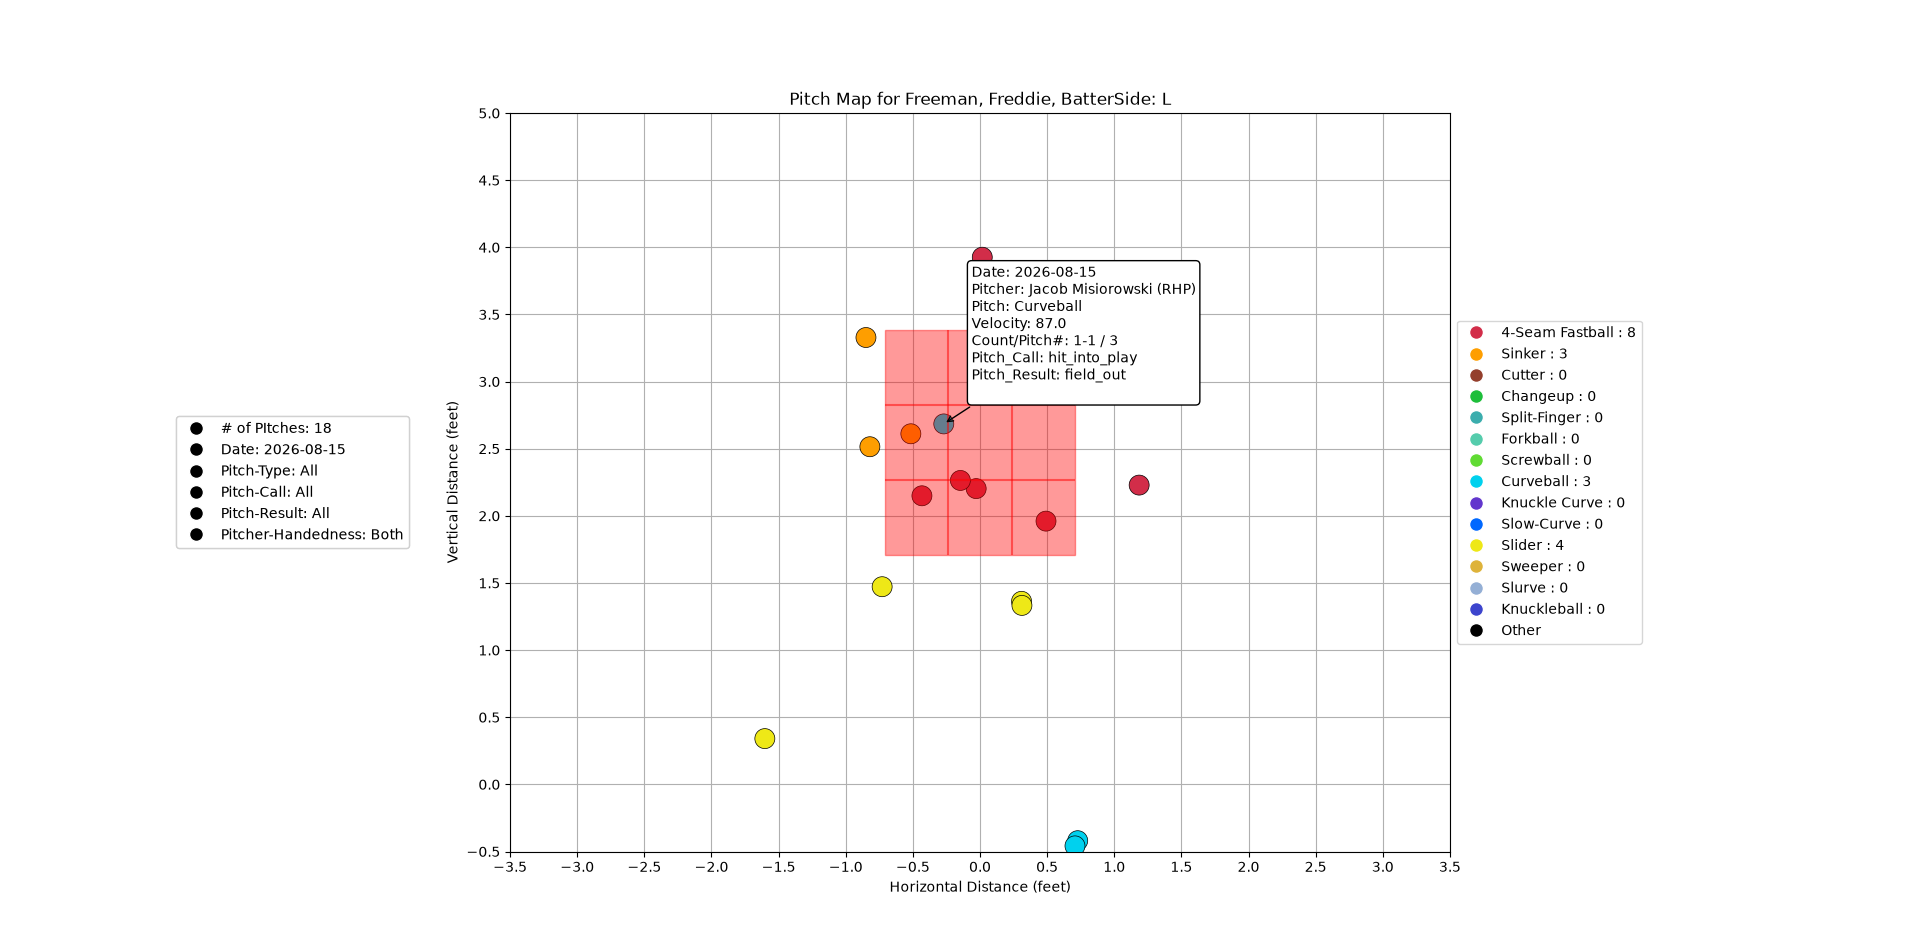
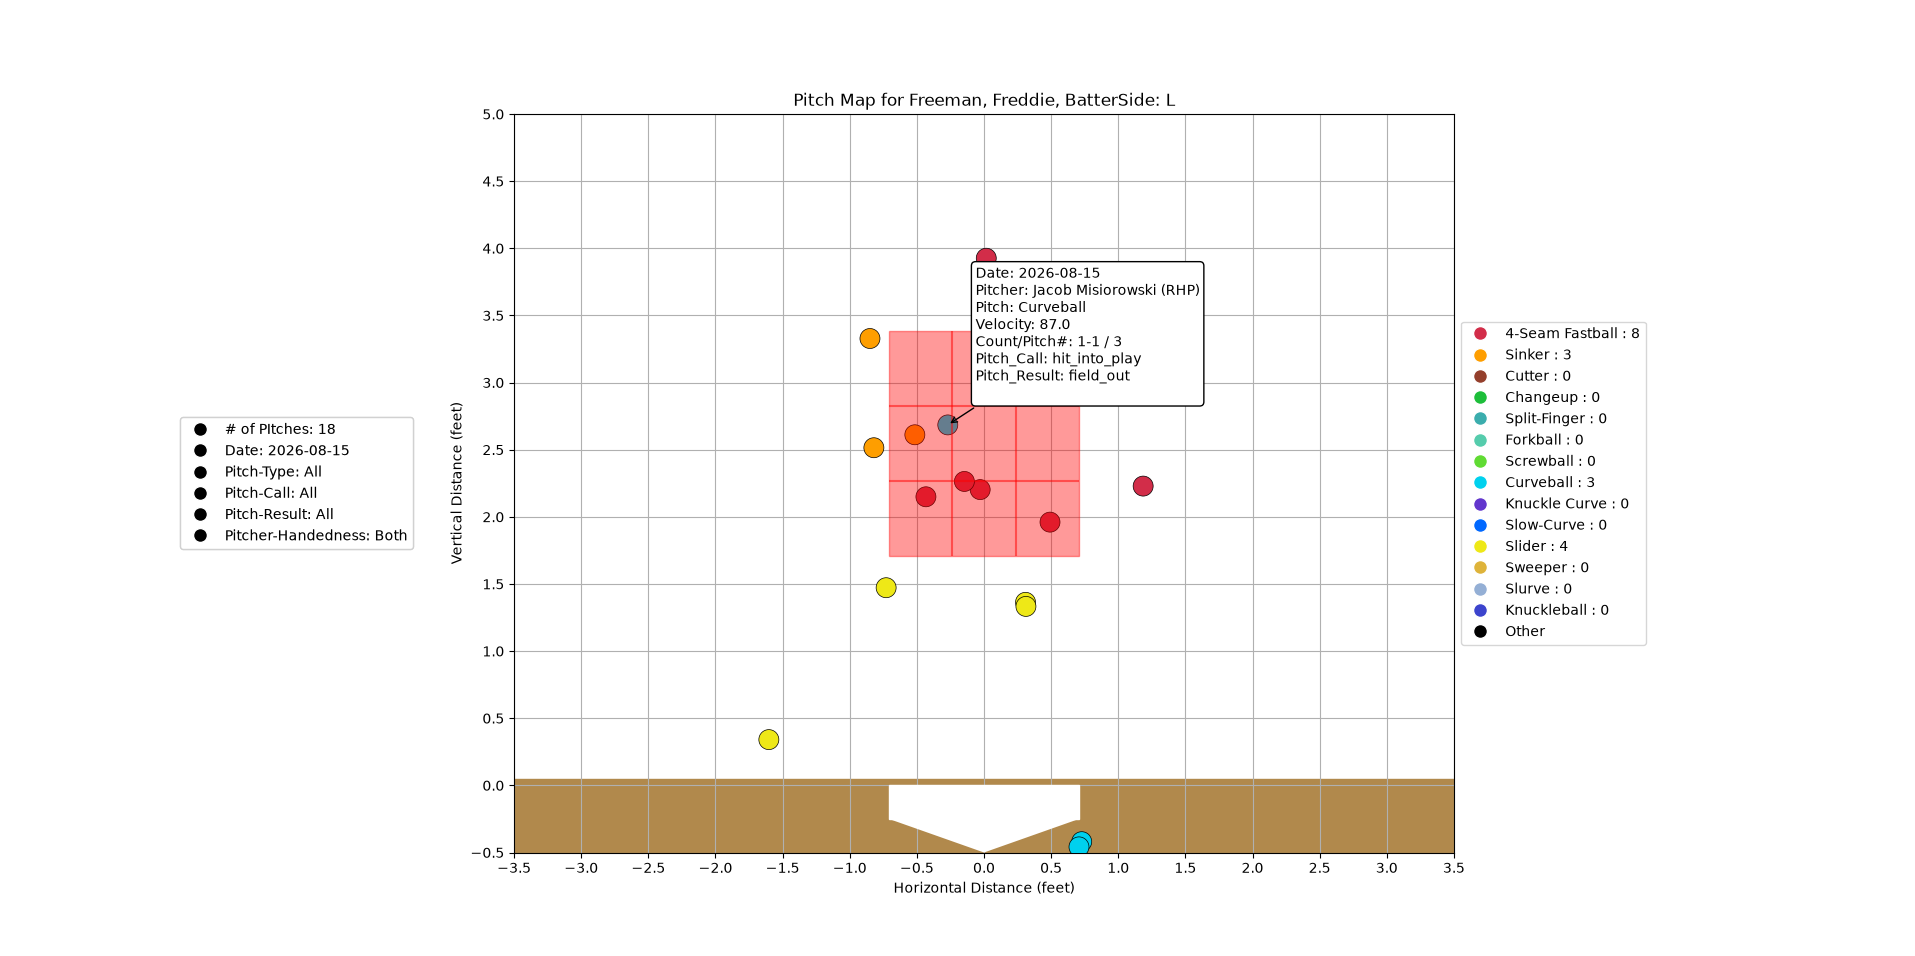
ground and plate

diff --git a/batter.py b/batter.py
@@ -2,7 +2,7 @@ import pandas as pd
 import numpy as np
 import matplotlib
 import matplotlib.pyplot as plt
-from matplotlib.patches import Rectangle
+from matplotlib.patches import Rectangle, Polygon
 from ipywidgets import Dropdown, interact, DatePicker, widgets, interactive_output
 from PIL import Image
 from scipy.ndimage import gaussian_filter
@@ -87,12 +87,18 @@ def plot_data(data, date, pitch_type, pitch_call, pitch_result, pitcher_hand):
     total_pitches = len(filtered_data)
         
     strikeZone = matplotlib.patches.Rectangle((-0.708, bottomZone), 1.416, zoneHeight, color='red', zorder=10, alpha=0.4)
+    ground = matplotlib.patches.Rectangle((-3.5, -0.5), 7, 0.55, color="#B1894CBD", zorder=1, alpha=1)
+    plate1 = matplotlib.patches.Rectangle((-0.708, -0.25), 1.416, 0.25, color='white', zorder=2, alpha=1)
+    plate2 = Polygon([(-0.708,-0.25), (0,-0.5), (0.708,-0.25)], facecolor='white', zorder=2, alpha=1)
     pitch_colors = {'4-Seam Fastball': '#d22d49', 'Sinker': '#fe9e00', 'Cutter': '#943f2c', 'Changeup': '#1dbe3a',
                     'Split-Finger': '#3badad', 'Forkball': '#55ccac', 'Screwball': '#60db33', 'Curveball': '#00d1ee',
                     'Knuckle Curve': '#6236cd', 'Slow-Curve': '#0068ff', 'Slider': '#eee817', 'Sweeper': '#deb33a',
                     'Slurve': '#94afd5', 'Knuckleball': '#3c44cd'}
     colors = filtered_data['pitch_name'].map(pitch_colors).fillna('#000000')
     ax.add_patch(strikeZone)
+    ax.add_patch(ground)
+    ax.add_patch(plate1)
+    ax.add_patch(plate2)
     ax.vlines(0.236, bottomZone, bottomZone+zoneHeight, color='red', zorder=11, alpha=0.5)
     ax.vlines(-0.236, bottomZone, bottomZone+zoneHeight, color='red', zorder=11, alpha=0.5)
     ax.hlines(bottomZone+zoneHeight/3, -0.708, 0.708, color='red', zorder=11, alpha=0.5)
